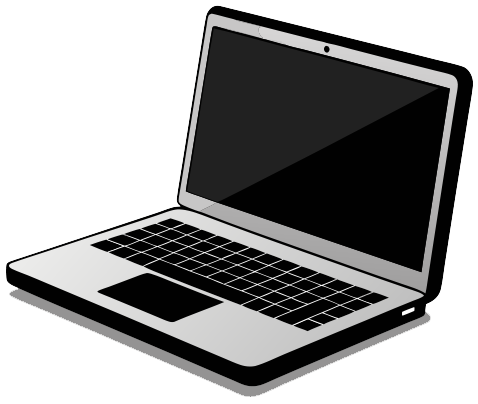
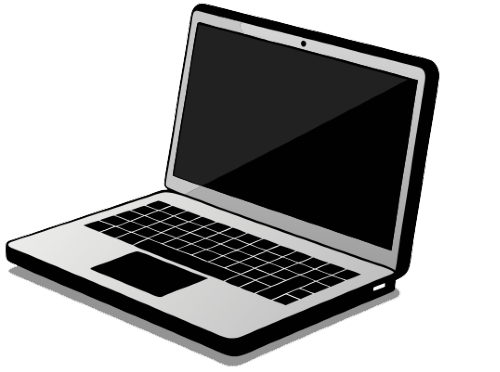
Early implementation of stream feed

diff --git a/src/DevicePanel.jsx b/src/DevicePanel.jsx
@@ -15,7 +15,7 @@ function DevicePanel({ workspaceState, ghostDeviceState, setGhostDeviceState }) 
             ghostDeviceState={ghostDeviceState} setGhostDeviceState={setGhostDeviceState}/>,
         <DeviceButton key={1} image={captureCard} width={100} height={60} workspaceState={workspaceState}
             ghostDeviceState={ghostDeviceState} setGhostDeviceState={setGhostDeviceState}/>,
-        <DeviceButton key={2} image={laptop} width={100} height={90} workspaceState={workspaceState}
+        <DeviceButton key={2} image={laptop} width={110} height={90} workspaceState={workspaceState}
             ghostDeviceState={ghostDeviceState} setGhostDeviceState={setGhostDeviceState}/>,
         <DeviceButton key={3} image={headset} width={100} height={85} workspaceState={workspaceState}
             ghostDeviceState={ghostDeviceState} setGhostDeviceState={setGhostDeviceState}/>,

diff --git a/src/RightPanel.jsx b/src/RightPanel.jsx
@@ -1,0 +1,37 @@
+import { act, useState } from 'react'
+
+import colorBars from './assets/colorBars.png'
+import placeholder from './assets/sports.gif'
+
+import './RightPanel.css'
+
+function RightPanel() {
+
+    // #### SOURCE ####
+    return (
+        <div className="right-panel">
+            <StreamFeed />
+        </div>
+    )
+}
+
+function StreamFeed() {
+
+    const [active, setActive] = useState(false);
+    
+    // #### SOURCE ####
+    return (
+        <>
+            <div className="stream-feed">
+                <div className="inner-stream-feed">
+                    <img src={active ? placeholder : colorBars} style={{width: "100%", height: "100%"}}></img>
+                </div>
+            </div>
+            <button onClick={() => {setActive(!active)}}>Test the stream</button>
+        </>
+
+
+    )
+}
+
+export default RightPanel;

diff --git a/src/App.jsx b/src/App.jsx
@@ -11,6 +11,7 @@ import audioMixer from './assets/audioMixer.png'
 import Workspace from './Workspace'
 import DevicePanel from './DevicePanel'
 import ControlPanel from './ControlPanel'
+import RightPanel from './RightPanel'
 
 // top level component for the app
 function App() {
@@ -83,6 +84,7 @@ function App() {
       <DevicePanel workspaceState={workspaceState} ghostDeviceState={ghostDeviceState} setGhostDeviceState={setGhostDeviceState} />
       <ControlPanel appState={appState} setAppState={setAppState} />
       <GhostDevice ghostDeviceState={ghostDeviceState} />
+      <RightPanel />
     </div>
   )
 }

diff --git a/src/RightPanel.css b/src/RightPanel.css
@@ -1,0 +1,31 @@
+.right-panel {
+    position: fixed;
+    top: 100px;
+    right: 0;
+    bottom: 100px;
+    width: 300px;
+
+    display: flex;
+    flex-direction: column;
+    align-items: center;
+}
+
+.stream-feed {
+    width: 275px;
+    height: 175px;
+    border-radius: 10px;
+
+    display: flex;
+    flex-direction: column;
+    justify-content: center;
+    align-items: center;
+
+    background-color: black;
+}
+
+.inner-stream-feed {
+    width: 90%;
+    height: 85%;
+    
+    display: flex;
+}

diff --git a/src/Workspace.css b/src/Workspace.css
@@ -1,7 +1,7 @@
 .workspace {
     top: 100px;
     left: 100px;
-    right: 25%;
+    right: 300px;
     bottom: 100px;
     position: absolute;
     overflow: hidden;

diff --git a/src/ControlPanel.css b/src/ControlPanel.css
@@ -1,7 +1,7 @@
 .control-panel {
     position: fixed;
     left: 100px;
-    right: 25%;
+    right: 300px;
     bottom: 0;
     height: 100px;
 
